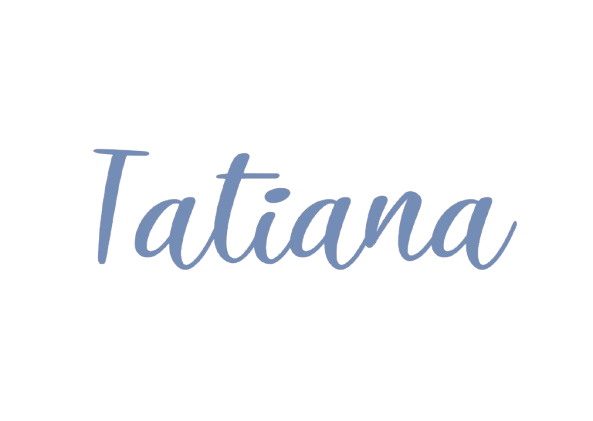
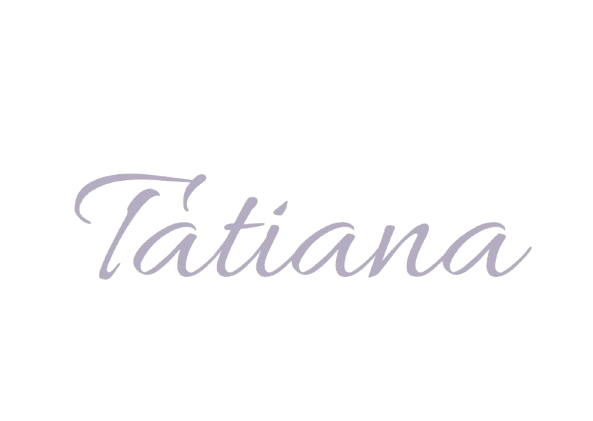
FINAL

Changed region(s): [[0.1214, 0.3397, 0.8803, 0.6793], [0.8803, 0.5867, 0.9106, 0.6176]]

diff --git a/style.css b/style.css
@@ -21,9 +21,9 @@
   
   @media (max-width: 730px) {
     .calendario{
-      width: 90%;
+      width: 80%;
       margin-top: 10%;
-      margin-left: 5%;
+      margin-left: 10%;
     }
     .cuenta-regresiva {
       display: flex;
@@ -37,7 +37,7 @@
   .cr-time > span {
       font-size: 17px;
       font-weight: bold;
-      color: #748DB6;
+      color: #cfb9d9;
       
   }
   .cr-desc {
@@ -143,7 +143,7 @@ margin-left: 68%;
   .Frase_inicio{
     text-align: center;
     font-family: 'Alex Brush', cursive;
-         font-size: 25px;
+         font-size: 28px;
          color: #888888;
          margin-top: -20%; 
   }
@@ -174,7 +174,7 @@ margin-left: 68%;
 .parrafo1{
   margin: 15%;
     text-align: center;
-    color:#748DB6;
+    color:#cfb9d9;
     font-size: 224%;
     font-family: 'Great Vibes', cursive;
 }
@@ -227,7 +227,7 @@ margin-left: 68%;
   outline: none;
   border-radius: 5px;
   z-index: 0;
-  background: #B4C2D7;
+  background: #9d74b6;
   overflow: hidden;
   border: 2px rgb(215, 135, 222);
   color: rgb(255, 255, 255);
@@ -273,7 +273,7 @@ justify-content: center;
 .parrafo5{
   margin: 15%;
     text-align: center;
-    color:#748DB6;
+    color: #cfb9d9;
     font-size: 224%;
     font-family: 'Great Vibes', cursive;
 }
@@ -314,7 +314,7 @@ justify-content: center;
   outline: none;
   border-radius: 5px;
   z-index: 0;
-  background: #B4C2D7;
+  background: #9d74b6;
   overflow: hidden;
   border: 2px rgb(215, 135, 222);
   color: rgb(255, 255, 255);
@@ -329,14 +329,14 @@ justify-content: center;
   margin-top: 25%;
 }
 .Tizi{
-  width: 35%;
-  margin-left: 32%;
-  margin-top: -15%;
+  width: 50%;
+  margin-left: 25%;
+  margin-top: -18%;
 }
 .corazon{
-  width: 5%;
+  width: 8%;
   margin-left: 48%;
-  margin-top: -90%;
+  margin-top: -65%;
 }
 .grises{
   width: 28%;

diff --git a/main.js b/main.js
@@ -71,9 +71,21 @@ function diaEventoAhora () {
       icon: 'success',
       html:
         'INGRESÁ' +
-        '<iframe src="https://www.google.com/maps/embed?pb=!1m18!1m12!1m3!1d3348.469450959886!2d-68.7496958!3d-32.938613!2m3!1f0!2f0!3f0!3m2!1i1024!2i768!4f13.1!3m3!1m2!1s0x967e0bc59dbc0a8b%3A0xa8b14a97348fd0a9!2sOballes%20Eventos!5e0!3m2!1ses-419!2sar!4v1708785369026!5m2!1ses-419!2sar" width="600" height="450" style="border:0;" allowfullscreen="" loading="lazy" referrerpolicy="no-referrer-when-downgrade"></iframe>' +
+        '<iframe src="https://www.google.com/maps/embed?pb=!4v1750207616019!6m8!1m7!1sFEtUQml512S3_U_1kd_T8A!2m2!1d-34.79911807240489!2d-58.23103258681984!3f60.109318983555795!4f0!5f0.7820865974627469" width="600" height="450" style="border:0;" allowfullscreen="" loading="lazy" referrerpolicy="no-referrer-when-downgrade"></iframe>' +
         'Podes ampliar el mapa',
         
         
     })
   });
+  function exito(){
+    Swal.fire({
+        title: '<strong>VER LA UBICACION<u></u></strong>',
+        icon: 'success',
+        html:
+          'INGRESÁ' +
+          '<iframe src="https://www.google.com/maps/embed?pb=!1m18!1m12!1m3!1d3276.848144782799!2d-58.186617!3d-34.784597999999995!2m3!1f0!2f0!3f0!3m2!1i1024!2i768!4f13.1!3m3!1m2!1s0x95a326212a9a7c1d%3A0x8cd6486615f2c1ba!2sC.%2038%20A%20%26%20C.%20149%20A%2C%20B1861%20Platanos%2C%20Provincia%20de%20Buenos%20Aires!5e0!3m2!1ses!2sar!4v1750207683862!5m2!1ses!2sar" width="600" height="450" style="border:0;" allowfullscreen="" loading="lazy" referrerpolicy="no-referrer-when-downgrade"></iframe>' +
+          'Podes ampliar el mapa',
+          
+          
+      })
+}

diff --git a/index.html b/index.html
@@ -155,7 +155,8 @@
 
 
 <div class="contenedor-mapa">
- <button class="clik" id="btn">como llegar</button>
+  <button type="submit" onclick="return exito()" class="clik" >como llegar</button >
+
 </div>
 
    <p class="parrafo1"><b>La fiesta</b></p>
